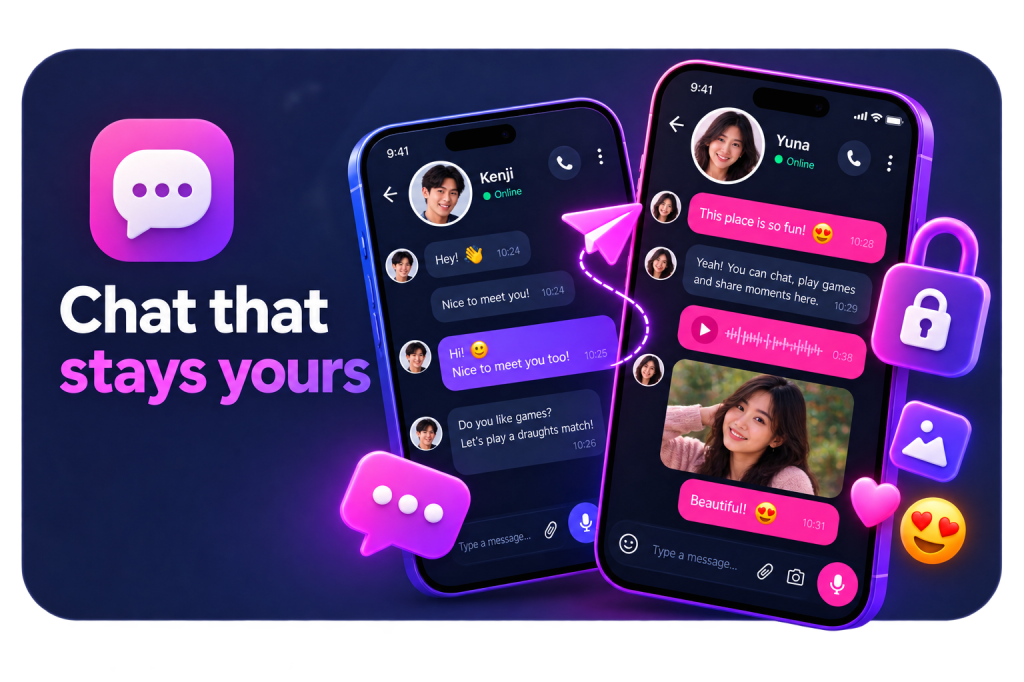
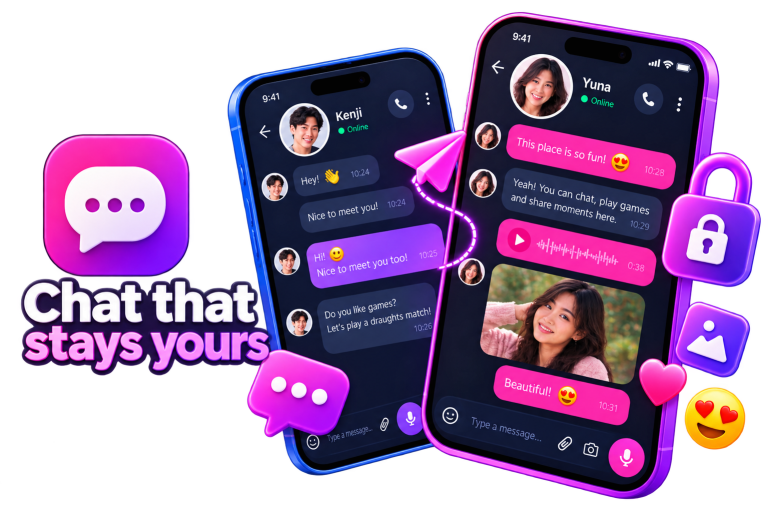
Turn the artwork down
Olivia's renders are lit for a bright feed — saturated neon on a near-white
backdrop. Dropped straight onto this page they shout over the type, and two
of them sit in the hero where the headline is meant to be read first.

A single .lm-art class now takes them to saturate(0.85) brightness(0.92)
contrast(0.97), applied to the hero pair, the screenshots strip and the coins
and gifts renders. One class rather than three so they cannot drift apart,
and so there is one number to change if this is still not right.

Deliberately restrained. Any further and the pink in the artwork stops
matching the brand pink beside it, which reads as a mistake rather than as a
choice.

The hero glow came down with them, from opacity-40 inset-6 to opacity-25
inset-10. It was sized for a photograph with a hard rectangular edge; under a
transparent render it was adding brightness rather than depth.

diff --git a/src/components/HeroCarousel.tsx b/src/components/HeroCarousel.tsx
@@ -79,7 +79,7 @@ export default function HeroCarousel() {
           renders have no rectangular edge to frame. */}
       <div
         aria-hidden
-        className="absolute inset-6 rounded-full opacity-40 blur-3xl"
+        className="absolute inset-10 rounded-full opacity-25 blur-3xl"
         style={{
           background:
             'linear-gradient(135deg, var(--color-rose), var(--color-magenta) 55%, var(--color-coral))',
@@ -96,7 +96,7 @@ export default function HeroCarousel() {
             animate={{ opacity: 1, scale: 1 }}
             exit={{ opacity: 0, scale: 1.02 }}
             transition={{ duration: 0.55, ease: [0.22, 1, 0.36, 1] }}
-            className="absolute inset-0 w-full h-full object-contain drop-shadow-2xl"
+            className="lm-art absolute inset-0 w-full h-full object-contain drop-shadow-2xl"
             onError={() =>
               setOk((prev) => {
                 const next = [...prev]

diff --git a/src/index.css b/src/index.css
@@ -174,6 +174,23 @@ body {
   -moz-osx-font-smoothing: grayscale;
 }
 
+/* ---------------------------------------------------------------------------
+ * Marketing artwork, turned down.
+ *
+ * The renders are lit for a bright feed — saturated neon on a white-ish
+ * backdrop. Dropped straight onto this page they shout over the type, and
+ * two of them sit in the hero where the headline is supposed to be read
+ * first.
+ *
+ * A small desaturation and a touch less brightness settles them into the
+ * palette without draining them. Deliberately restrained: any further and
+ * the pink stops matching the brand pink beside it, which looks like a
+ * mistake rather than a choice.
+ * ------------------------------------------------------------------------ */
+.lm-art {
+  filter: saturate(0.85) brightness(0.92) contrast(0.97);
+}
+
 /* Disable iOS tap highlight, looks cheap. */
 * {
   -webkit-tap-highlight-color: transparent;

diff --git a/src/components/WhatItIs.tsx b/src/components/WhatItIs.tsx
@@ -179,7 +179,7 @@ export default function WhatItIs() {
               initial={{ opacity: 0, y: 16 }}
               whileInView={{ opacity: 1, y: 0 }}
               viewport={{ once: true, margin: "-40px" }}
-              className="w-full h-auto object-contain"
+              className="lm-art w-full h-auto object-contain"
               onError={(e) => { (e.currentTarget as HTMLImageElement).style.display = "none" }}
             />
           ))}

diff --git a/src/components/Screenshots.tsx b/src/components/Screenshots.tsx
@@ -80,7 +80,7 @@ function Shot({
         src={src}
         alt={alt}
         loading="lazy"
-        className="w-full h-auto object-contain"
+        className="lm-art w-full h-auto object-contain"
         onError={(e) => {
           const img = e.currentTarget
           img.style.display = 'none'
